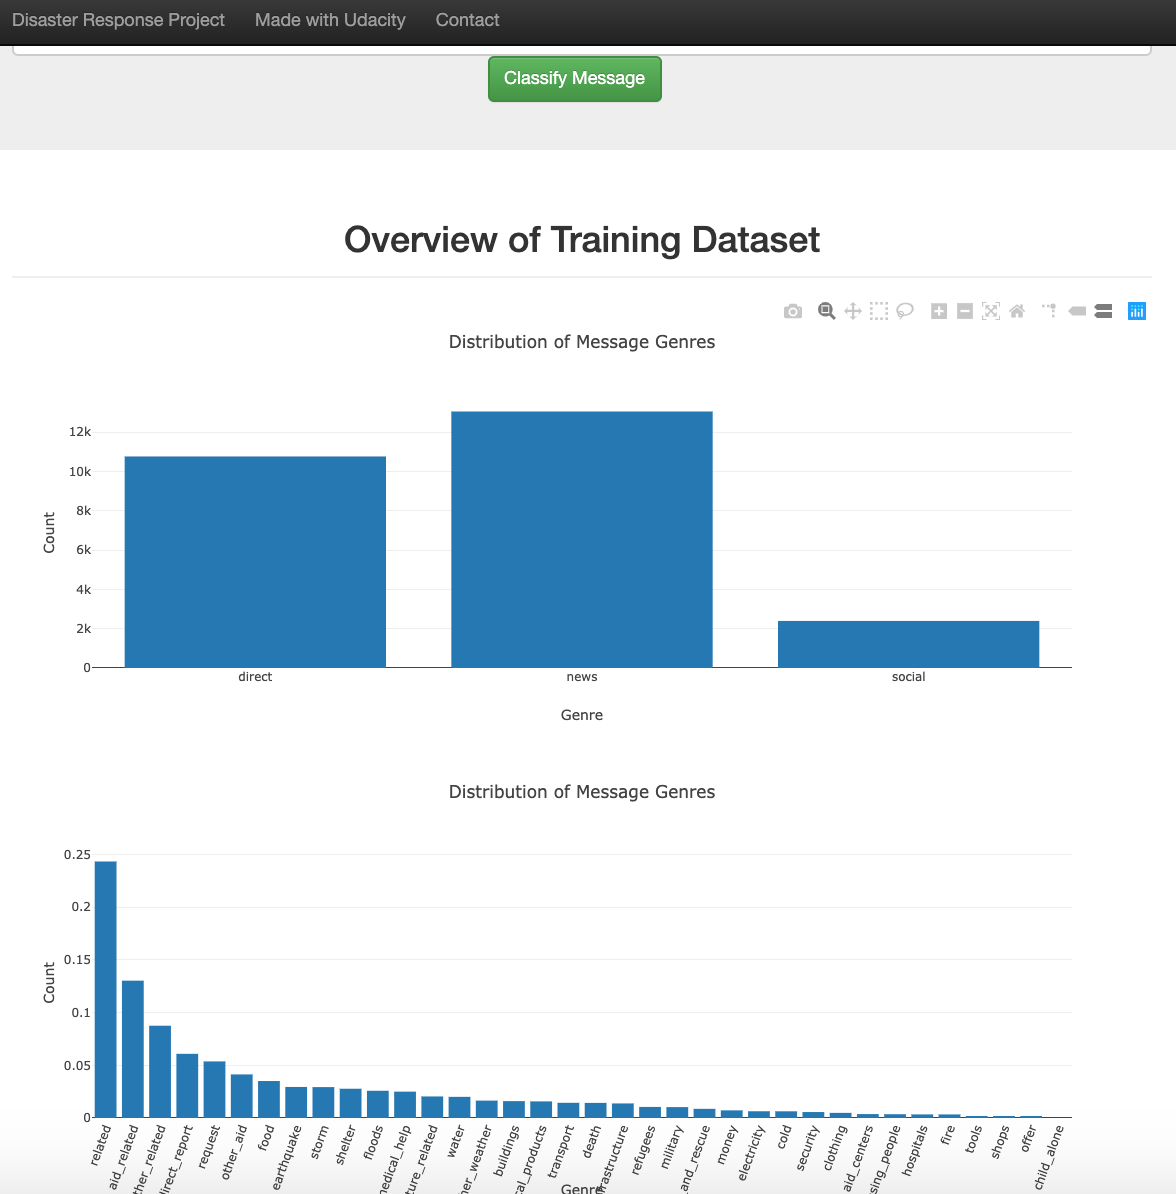
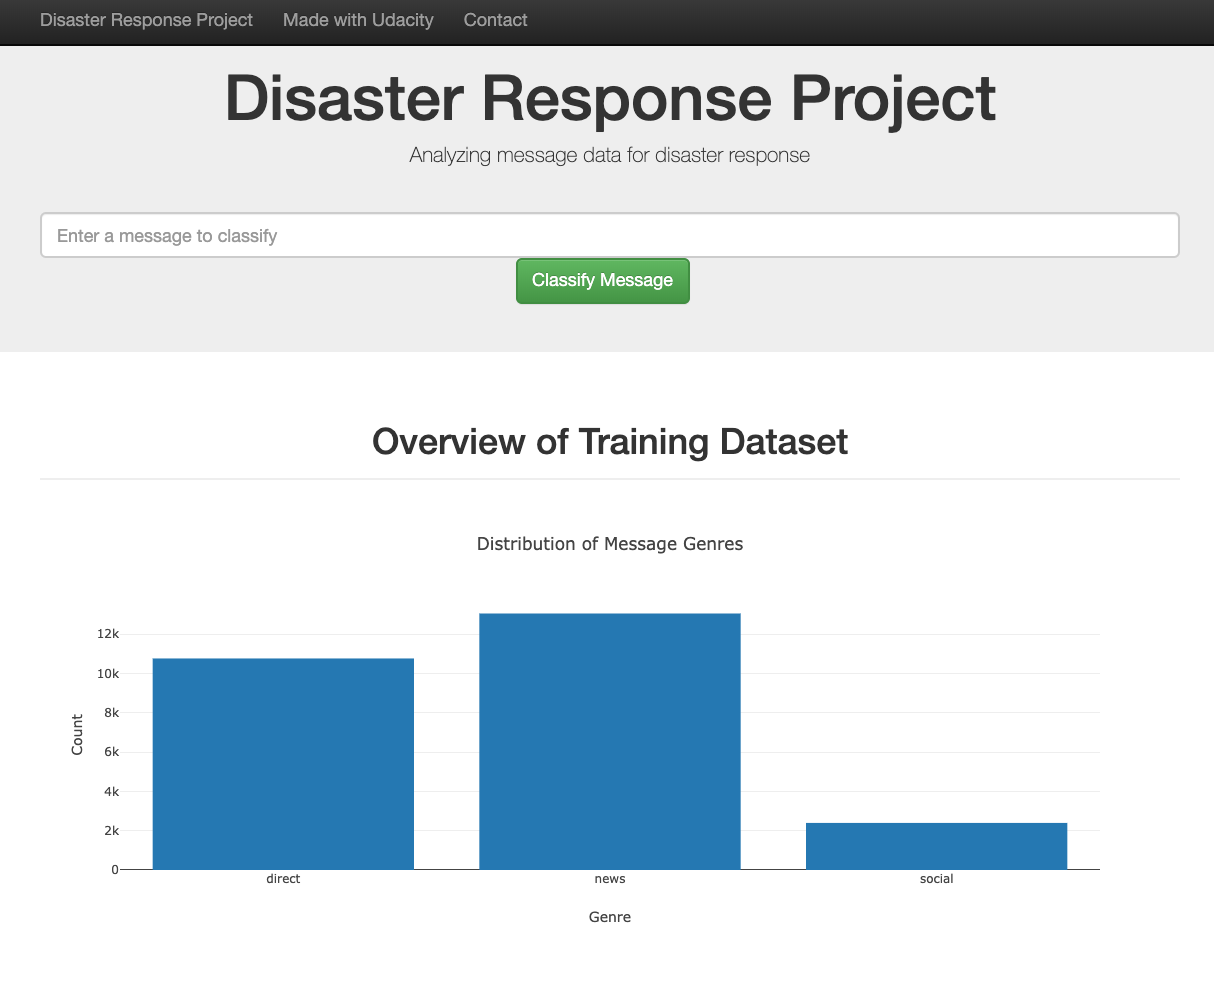
README.md: text corrections

diff --git a/README.md b/README.md
@@ -31,11 +31,11 @@ Plotly.
 Results were dislayed in a dashboard using HTML, Flask and Plotly, as shown bellow:
 
 <img src="image.png" alt="drawing"/>
-With this dashboard, one can easily insert a massage to be classified and visualized the predicted
+
+With this dashboard, one can easily insert a massage to be classified as well as visualize the predicted
 categories. Moreover, the main page includes some visualizations:
 
 <img src="image_2.png" alt="drawing"/>
-<img src="image_3.png" alt="drawing"/>
 
 It is intresting to point out that child alone is the categorie with the lowest proportion of messages
 in opposed to related.
